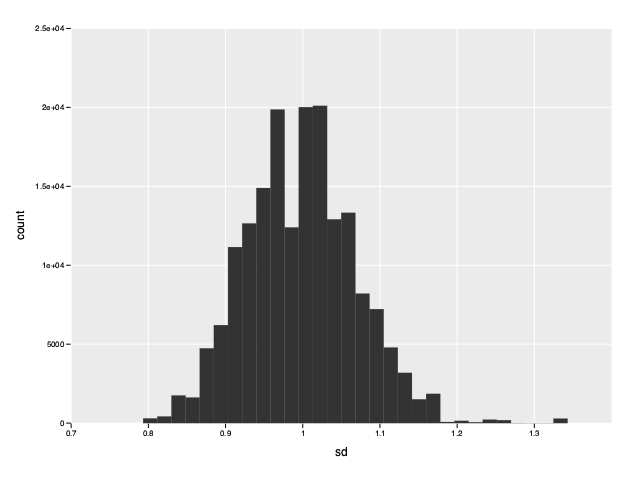
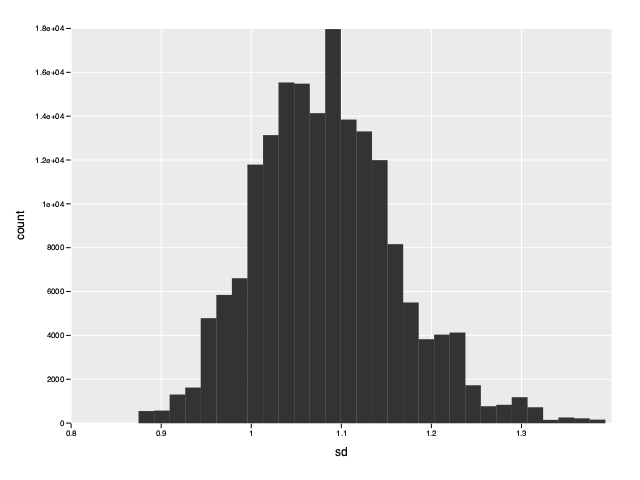
Put mcmc into proc

diff --git a/index.html b/index.html
@@ -42,9 +42,9 @@ section#source {
 </header><main>
 <h1>Bayesian Inference with Linear Model</h1>
 <p>At the time of this writing, Nim does not have any libraries for
-conducting Bayesian inference. However, Nim makes it quite easy for us to
-write all of the necessary code ourselves. This is also a good exercise for
-learning about Bayesian inference and Nim's syntax and speed make it perfect
+conducting Bayesian inference. However, it is quite easy for us to
+write all of the necessary code ourselves. This is a good exercise for
+learning about Bayesian inference. Nim's syntax and speed make it perfect
 for this. We will assume that you have some basic understanding of Bayesian
 inference already. There are many excellent introductions available in books
 and online.</p>
@@ -164,43 +164,49 @@ for each mcmc sample again using the $ln$.</p>
 <li>Propose a new parameter value close to the previous one.</li>
 <li>Accept the proposed parameter value with probability ...</li>
 </ol>
-<pre><code class="nim hljs"><span class="hljs-keyword">var</span>
-  nSamples = <span class="hljs-number">200000</span>
-  b0Samples = newSeq[<span class="hljs-built_in">float</span>](nSamples + <span class="hljs-number">1</span>)
-  b1Samples = newSeq[<span class="hljs-built_in">float</span>](nSamples + <span class="hljs-number">1</span>)
-  sdSamples = newSeq[<span class="hljs-built_in">float</span>](nSamples + <span class="hljs-number">1</span>)
-b0Samples[<span class="hljs-number">0</span>] = <span class="hljs-number">0.0</span>
-b1Samples[<span class="hljs-number">0</span>] = <span class="hljs-number">1.0</span>
-sdSamples[<span class="hljs-number">0</span>] = <span class="hljs-number">1.0</span>
-<span class="hljs-keyword">for</span> i <span class="hljs-keyword">in</span> <span class="hljs-number">1</span> .. nSamples:
-  <span class="hljs-keyword">let</span>
-    prevB0 = b0Samples[i - <span class="hljs-number">1</span>]
-    prevB1 = b1Samples[i - <span class="hljs-number">1</span>]
-    prevSd = sdSamples[i - <span class="hljs-number">1</span>]
-    propB0 = gauss(prevB0, <span class="hljs-number">0.2</span>)
-    propB1 = gauss(prevB1, <span class="hljs-number">0.2</span>)
-    propSd = gauss(prevSd, <span class="hljs-number">0.1</span>)
-  <span class="hljs-keyword">if</span> propSd &gt; <span class="hljs-number">0.0</span>:
-    <span class="hljs-keyword">var</span>
-      prevLogPost = logPosterior(x = x, y = y, b0 = prevB0, b1 = prevB1,
-                                 sd = prevSd)
-      propLogPost = logPosterior(x = x, y = y, b0 = propB0, b1 = propB1,
-                                 sd = propSd)
-      ratio = exp(propLogPost - prevLogPost)
-    <span class="hljs-keyword">if</span> rand(<span class="hljs-number">1.0</span>) &lt; ratio:
-      b0Samples[i] = propB0
-      b1Samples[i] = propB1
-      sdSamples[i] = propSd
+<pre><code class="nim hljs"><span class="hljs-keyword">proc</span> mcmc(x, y: <span class="hljs-built_in">seq</span>[<span class="hljs-built_in">float</span>]; nSamples: <span class="hljs-built_in">int</span>; b0, b1, sd: <span class="hljs-built_in">float</span>): (<span class="hljs-built_in">seq</span>[<span class="hljs-built_in">float</span>],
+    <span class="hljs-built_in">seq</span>[<span class="hljs-built_in">float</span>], <span class="hljs-built_in">seq</span>[<span class="hljs-built_in">float</span>]) =
+  <span class="hljs-keyword">var</span>
+    b0Samples = newSeq[<span class="hljs-built_in">float</span>](nSamples + <span class="hljs-number">1</span>)
+    b1Samples = newSeq[<span class="hljs-built_in">float</span>](nSamples + <span class="hljs-number">1</span>)
+    sdSamples = newSeq[<span class="hljs-built_in">float</span>](nSamples + <span class="hljs-number">1</span>)
+  b0Samples[<span class="hljs-number">0</span>] = b0
+  b1Samples[<span class="hljs-number">0</span>] = b1
+  sdSamples[<span class="hljs-number">0</span>] = sd
+  <span class="hljs-keyword">for</span> i <span class="hljs-keyword">in</span> <span class="hljs-number">1</span> .. nSamples:
+    <span class="hljs-keyword">let</span>
+      prevB0 = b0Samples[i - <span class="hljs-number">1</span>]
+      prevB1 = b1Samples[i - <span class="hljs-number">1</span>]
+      prevSd = sdSamples[i - <span class="hljs-number">1</span>]
+      propB0 = gauss(prevB0, <span class="hljs-number">0.2</span>)
+      propB1 = gauss(prevB1, <span class="hljs-number">0.2</span>)
+      propSd = gauss(prevSd, <span class="hljs-number">0.1</span>)
+    <span class="hljs-keyword">if</span> propSd &gt; <span class="hljs-number">0.0</span>:
+      <span class="hljs-keyword">var</span>
+        prevLogPost = logPosterior(x = x, y = y, b0 = prevB0, b1 = prevB1,
+                                   sd = prevSd)
+        propLogPost = logPosterior(x = x, y = y, b0 = propB0, b1 = propB1,
+                                   sd = propSd)
+        ratio = exp(propLogPost - prevLogPost)
+      <span class="hljs-keyword">if</span> rand(<span class="hljs-number">1.0</span>) &lt; ratio:
+        b0Samples[i] = propB0
+        b1Samples[i] = propB1
+        sdSamples[i] = propSd
+      <span class="hljs-keyword">else</span>:
+        b0Samples[i] = prevB0
+        b1Samples[i] = prevB1
+        sdSamples[i] = prevSd
     <span class="hljs-keyword">else</span>:
       b0Samples[i] = prevB0
       b1Samples[i] = prevB1
       sdSamples[i] = prevSd
-  <span class="hljs-keyword">else</span>:
-    b0Samples[i] = prevB0
-    b1Samples[i] = prevB1
-    sdSamples[i] = prevSd</code></pre>
+  <span class="hljs-literal">result</span> = (b0Samples, b1Samples, sdSamples)
+
+<span class="hljs-keyword">var</span>
+  nSamples = <span class="hljs-number">200000</span>
+  (b0Samples, b1Samples, sdSamples) = mcmc(x, y, nSamples, <span class="hljs-number">0</span>, <span class="hljs-number">1</span>, <span class="hljs-number">1</span>)</code></pre>
 <h1>Burnin</h1>
-<p>Initially the mcmc chain may spend a lot of time exploring unlikely regions
+<p>Initially the mcmc chain may spend time exploring unlikely regions
 parameter space. We can get a better approximation of the posterior if we
 exclude these early steps in the chain. These excluded samples are referred to<br />
 as the burnin. A burnin of $10%$ seems to work well with our informative priors
@@ -219,9 +225,9 @@ the mean. Let's see how close these values are to the true means.</p>
 <span class="hljs-keyword">echo</span> meanB0
 <span class="hljs-keyword">echo</span> meanB1
 <span class="hljs-keyword">echo</span> meanSd</code></pre>
-<pre><samp>-0.3972981901305042
-1.003129738959811
-0.9975660889123292
+<pre><samp>-0.03878707038494573
+0.9987030586172279
+1.083846568231885
 </samp></pre>
 <h1>Highest density interval</h1>
 <p>The means give us a point estimate for our parameter values but they tell us
@@ -251,9 +257,9 @@ looking at the highest density interval.</p>
 <span class="hljs-keyword">echo</span> b0HdiMin, <span class="hljs-string">&quot; &quot;</span>, b0HdiMax
 <span class="hljs-keyword">echo</span> b1HdiMin, <span class="hljs-string">&quot; &quot;</span>, b1HdiMax
 <span class="hljs-keyword">echo</span> sdHdiMin, <span class="hljs-string">&quot; &quot;</span>, sdHdiMax</code></pre>
-<pre><samp>-0.8241005228624089 0.006971099185924735
-0.9958153191058512 1.010317764363869
-0.8696065250887538 1.139423189156465
+<pre><samp>-0.5334491077913923 0.4337784943846376
+0.990751804182687 1.007030875750892
+0.9492099289898754 1.250897646314923
 </samp></pre>
 <h1>Trace plots</h1>
 <p>We can get a sense for how well our mcmc performed and therefore gain some<br />
@@ -337,9 +343,9 @@ nbText: <span class="hljs-string">md&quot;&quot;&quot;
 # Bayesian Inference with Linear Model
 
 At the time of this writing, Nim does not have any libraries for
-conducting Bayesian inference. However, Nim makes it quite easy for us to
-write all of the necessary code ourselves. This is also a good exercise for
-learning about Bayesian inference and Nim's syntax and speed make it perfect
+conducting Bayesian inference. However, it is quite easy for us to
+write all of the necessary code ourselves. This is a good exercise for
+learning about Bayesian inference. Nim's syntax and speed make it perfect
 for this. We will assume that you have some basic understanding of Bayesian
 inference already. There are many excellent introductions available in books
 and online.
@@ -499,46 +505,51 @@ We will use a Metropolis-Hastings algorithm to approximate the posterior.
 3) Accept the proposed parameter value with probability ...
 &quot;&quot;&quot;</span>
 nbCode:
-  <span class="hljs-keyword">var</span> 
-    nSamples = <span class="hljs-number">200000</span>
-    b0Samples = newSeq[<span class="hljs-built_in">float</span>](nSamples+<span class="hljs-number">1</span>) 
-    b1Samples = newSeq[<span class="hljs-built_in">float</span>](nSamples+<span class="hljs-number">1</span>) 
-    sdSamples = newSeq[<span class="hljs-built_in">float</span>](nSamples+<span class="hljs-number">1</span>) 
-
-  b0Samples[<span class="hljs-number">0</span>] = <span class="hljs-number">0.0</span>  
-  b1Samples[<span class="hljs-number">0</span>] = <span class="hljs-number">1.0</span> 
-  sdSamples[<span class="hljs-number">0</span>] = <span class="hljs-number">1.0</span> 
+  <span class="hljs-keyword">proc</span> mcmc(x, y: <span class="hljs-built_in">seq</span>[<span class="hljs-built_in">float</span>], nSamples: <span class="hljs-built_in">int</span>, b0, b1, sd: <span class="hljs-built_in">float</span>): (<span class="hljs-built_in">seq</span>[<span class="hljs-built_in">float</span>], 
+      <span class="hljs-built_in">seq</span>[<span class="hljs-built_in">float</span>], <span class="hljs-built_in">seq</span>[<span class="hljs-built_in">float</span>]) =  
+    <span class="hljs-keyword">var</span> 
+      b0Samples = newSeq[<span class="hljs-built_in">float</span>](nSamples+<span class="hljs-number">1</span>) 
+      b1Samples = newSeq[<span class="hljs-built_in">float</span>](nSamples+<span class="hljs-number">1</span>) 
+      sdSamples = newSeq[<span class="hljs-built_in">float</span>](nSamples+<span class="hljs-number">1</span>) 
   
-  <span class="hljs-keyword">for</span> i <span class="hljs-keyword">in</span> <span class="hljs-number">1.</span>.nSamples:
-    <span class="hljs-keyword">let</span> 
-      prevB0 = b0Samples[i-<span class="hljs-number">1</span>]
-      prevB1 = b1Samples[i-<span class="hljs-number">1</span>]
-      prevSd = sdSamples[i-<span class="hljs-number">1</span>]
-      propB0 = gauss(prevB0, <span class="hljs-number">0.2</span>) 
-      propB1 = gauss(prevB1, <span class="hljs-number">0.2</span>)
-      propSd = gauss(prevSd, <span class="hljs-number">0.1</span>)
-    <span class="hljs-keyword">if</span> propSd &gt; <span class="hljs-number">0.0</span>:
-      <span class="hljs-keyword">var</span>
-        prevLogPost = logPosterior(x=x, y=y, b0=prevB0, b1=prevB1, sd=prevSd) 
-        propLogPost = logPosterior(x=x, y=y, b0=propB0, b1=propB1, sd=propSd) 
-        ratio = exp(propLogPost - prevLogPost)  
-      <span class="hljs-keyword">if</span> rand(<span class="hljs-number">1.0</span>) &lt; ratio:
-        b0Samples[i] = propB0  
-        b1Samples[i] = propB1  
-        sdSamples[i] = propSd  
-      <span class="hljs-keyword">else</span>: 
+    b0Samples[<span class="hljs-number">0</span>] = b0  
+    b1Samples[<span class="hljs-number">0</span>] = b1 
+    sdSamples[<span class="hljs-number">0</span>] = sd 
+    
+    <span class="hljs-keyword">for</span> i <span class="hljs-keyword">in</span> <span class="hljs-number">1.</span>.nSamples:
+      <span class="hljs-keyword">let</span> 
+        prevB0 = b0Samples[i-<span class="hljs-number">1</span>]
+        prevB1 = b1Samples[i-<span class="hljs-number">1</span>]
+        prevSd = sdSamples[i-<span class="hljs-number">1</span>]
+        propB0 = gauss(prevB0, <span class="hljs-number">0.2</span>) 
+        propB1 = gauss(prevB1, <span class="hljs-number">0.2</span>)
+        propSd = gauss(prevSd, <span class="hljs-number">0.1</span>)
+      <span class="hljs-keyword">if</span> propSd &gt; <span class="hljs-number">0.0</span>:
+        <span class="hljs-keyword">var</span>
+          prevLogPost = logPosterior(x=x, y=y, b0=prevB0, b1=prevB1, sd=prevSd) 
+          propLogPost = logPosterior(x=x, y=y, b0=propB0, b1=propB1, sd=propSd) 
+          ratio = exp(propLogPost - prevLogPost)  
+        <span class="hljs-keyword">if</span> rand(<span class="hljs-number">1.0</span>) &lt; ratio:
+          b0Samples[i] = propB0  
+          b1Samples[i] = propB1  
+          sdSamples[i] = propSd  
+        <span class="hljs-keyword">else</span>: 
+          b0Samples[i] = prevB0  
+          b1Samples[i] = prevB1  
+          sdSamples[i] = prevSd  
+      <span class="hljs-keyword">else</span>:
         b0Samples[i] = prevB0  
         b1Samples[i] = prevB1  
         sdSamples[i] = prevSd  
-    <span class="hljs-keyword">else</span>:
-      b0Samples[i] = prevB0  
-      b1Samples[i] = prevB1  
-      sdSamples[i] = prevSd  
-
+    <span class="hljs-literal">result</span> = (b0Samples, b1Samples, sdSamples)
+  <span class="hljs-keyword">var</span>
+    nSamples = <span class="hljs-number">200000</span>
+    (b0Samples, b1Samples, sdSamples) = mcmc(x, y, nSamples, <span class="hljs-number">0</span>, <span class="hljs-number">1</span>, <span class="hljs-number">1</span>) 
+  
 
 nbText: <span class="hljs-string">md&quot;&quot;&quot;
 # Burnin
-Initially the mcmc chain may spend a lot of time exploring unlikely regions 
+Initially the mcmc chain may spend time exploring unlikely regions 
 parameter space. We can get a better approximation of the posterior if we 
 exclude these early steps in the chain. These excluded samples are referred to   
 as the burnin. A burnin of $10%$ seems to work well with our informative priors 
